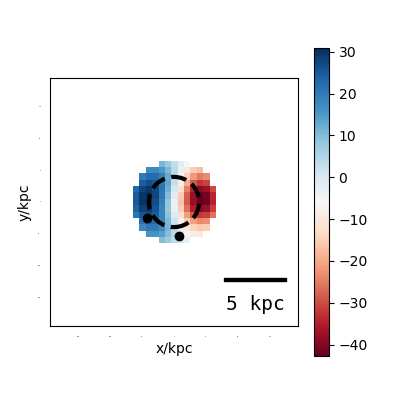
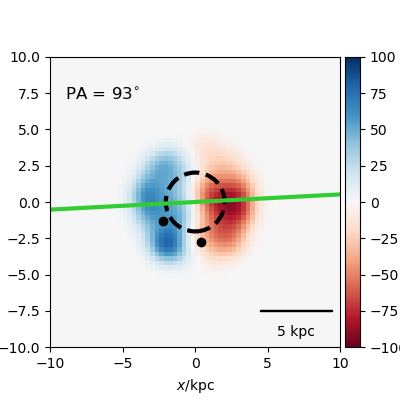
updated

diff --git a/r320/galaxy320_GasVelR.py b/r320/galaxy320_GasVelR.py
@@ -11,11 +11,14 @@ filename= '/mnt/data0/jillian/gguaman/r320/r320.007779.tipsy'
 redshift=0.03
 image_width=20
 
-gas_map, ax = plot_manga_map(filename, redshift, "gas", image_width, vmin = -20, vmax = 40, orientation="sideon")
+def rho_sq(particles):
+    return particles['rho']**2
+
+gas_map, gas_pa, ax = plot_manga_map(filename, redshift, "gas", weights=rho_sq,image_width=image_width, orientation="sideon", cmap='RdBu',vmin=-100, vmax=100)
 #gas_pa = calc_pa(gas_map)
 #plt.colorbar(ax.images[0])
 #plt.xlabel('x/kpc')
 #plt.ylabel('y/kpc')
 
-plt.show()
-#plt.savefig("galaxy320_GasVelR.png")
+#plt.show()
+plt.savefig("galaxy320_GasVelR.png")

diff --git a/r109/galaxy109_GasVelR.py b/r109/galaxy109_GasVelR.py
@@ -1,0 +1,19 @@
+#galaxy 109 Ray's gas velocity code
+import pynbody
+import numpy as np
+import pynbody.plot.sph as sph
+import matplotlib.pyplot as plt
+from pynbody_velmaps.position_angles import *
+from pynbody_velmaps.scripts.plot_manga_velmaps import *
+
+filename= '/mnt/data0/jillian/gguaman/r320/r320.007779.tipsy'
+redshift=0.03
+image_width=20
+
+def rho_sq(particles):
+    return particles['rho']**2
+
+gas_map, gas_pa, ax = plot_manga_map(filename, redshift, "gas", weights=rho_sq, image_width=image_width, orientation="sideon", cmap='RdBu',vmin=-100, vmax=100)
+
+#plt.show()
+plt.savefig("galaxy109_GasVelR.png")

diff --git a/r320/galaxy320_StelVelR.py b/r320/galaxy320_StelVelR.py
@@ -11,11 +11,11 @@ filename = '/mnt/data0/jillian/gguaman/r320/r320.007779.tipsy'
 redshift=0.01
 image_width=20
 
-stellar_map, ax = plot_manga_map(filename,redshift,"star",image_width,orientation="sideon")
+stellar_map, stellar_pa, ax = plot_manga_map(filename, redshift, "star", weights="mass", image_width=image_width, orientation="sideon", cmap='PuOr', vmin=-50, vmax=50)
 #stellar_pa = calc_pa(stellar_map)
 #plt.colorbar(ax.images[0])
 #plt.xlabel('x/kpc')
 #plt.ylabel('y/kpc')
 
-plt.show()
-#plt.savefig("galaxy320_StelVelR.png")
+#plt.show()
+plt.savefig("galaxy320_StelVelR.png")

diff --git a/r142/galaxy142_GasVelGG.py b/r142/galaxy142_GasVelGG.py
@@ -16,7 +16,7 @@ s.physical_units()
 pynbody.analysis.angmom.sideon(s)
 
 #creating star velocity plot
-sph.image(s.g,qty="vz",av_z="mass",width='20 kpc',cmap="RdBu", log=False, units='km s**-1')
+sph.image(s.g,qty="vz",width='20 kpc',cmap="RdBu", log=False, units='km s**-1')
 
 #function to find BH
 def findBH(s):

diff --git a/r142/galaxy142_StelVelGG.py b/r142/galaxy142_StelVelGG.py
@@ -16,7 +16,7 @@ s.physical_units()
 pynbody.analysis.angmom.sideon(s)
 
 #creating star velocity plot
-sph.image(s.s,qty="vz",av_z="mass",width='20 kpc',cmap="PuOr", log=False, units='km s**-1')
+sph.image(s.s,qty="vz",width='20 kpc',cmap="PuOr", log=False, units='km s**-1')
 
 #function to find BH
 def findBH(s):

diff --git a/r320/galaxy320_GasVelGG.py b/r320/galaxy320_GasVelGG.py
@@ -16,7 +16,7 @@ s.physical_units()
 pynbody.analysis.angmom.sideon(s)
 
 #creating star velocity plot
-sph.image(s.g,qty="vz",av_z="mass",width='20 kpc',cmap="RdBu", log=False, units='km s**-1')
+sph.image(s.g,qty="vz",width='20 kpc',cmap="RdBu", log=False, units='km s**-1')
 
 #function to find BH
 def findBH(s):

diff --git a/r320/galaxy320_StelVelGG.py b/r320/galaxy320_StelVelGG.py
@@ -16,7 +16,7 @@ s.physical_units()
 pynbody.analysis.angmom.sideon(s)
 
 #creating star velocity plot
-sph.image(s.s,qty="vz",av_z="mass",width='20 kpc',cmap="PuOr", log=False, units='km s**-1')
+sph.image(s.s,qty="vz",width='20 kpc',cmap="PuOr", log=False, units='km s**-1')
 
 #function to find BH
 def findBH(s):
